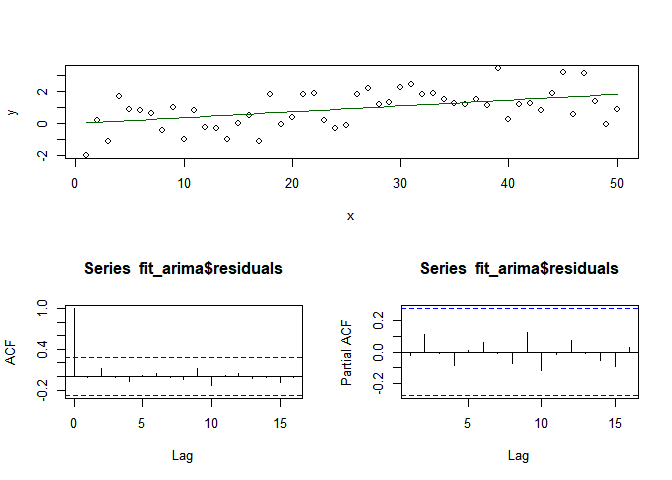
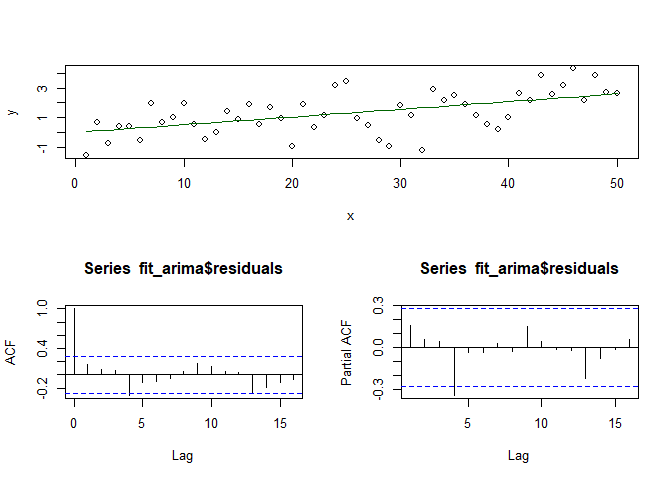
Update doc structure

diff --git a/src/2022-03-08_newey-west-heteroskedasticity-and-autocorrelation-robust-errors.md b/src/2022-03-08_newey-west-heteroskedasticity-and-autocorrelation-robust-errors.md
@@ -155,32 +155,32 @@ summary(fit) # standard estimates
     ## 
     ## Residuals:
     ##      Min       1Q   Median       3Q      Max 
-    ## -1.91022 -0.69829 -0.00632  0.78111  1.97382 
+    ## -2.91014 -0.76395  0.07692  0.75766  2.19645 
     ## 
     ## Coefficients:
-    ##              Estimate Std. Error t value Pr(>|t|)    
-    ## (Intercept) -0.177713   0.288546  -0.616    0.541    
-    ## x            0.041997   0.009848   4.265 9.34e-05 ***
+    ##             Estimate Std. Error t value Pr(>|t|)    
+    ## (Intercept) -0.12785    0.33539  -0.381    0.705    
+    ## x            0.05591    0.01145   4.884 1.19e-05 ***
     ## ---
     ## Signif. codes:  0 '***' 0.001 '**' 0.01 '*' 0.05 '.' 0.1 ' ' 1
     ## 
-    ## Residual standard error: 1.005 on 48 degrees of freedom
-    ## Multiple R-squared:  0.2748, Adjusted R-squared:  0.2597 
-    ## F-statistic: 18.19 on 1 and 48 DF,  p-value: 9.339e-05
+    ## Residual standard error: 1.168 on 48 degrees of freedom
+    ## Multiple R-squared:  0.332,  Adjusted R-squared:  0.3181 
+    ## F-statistic: 23.86 on 1 and 48 DF,  p-value: 1.195e-05
 
 ``` r
 coeftest(fit, vcov = NeweyWest(fit, verbose = T))
 ```
 
     ## 
-    ## Lag truncation parameter chosen: 0
+    ## Lag truncation parameter chosen: 2
 
     ## 
     ## t test of coefficients:
     ## 
-    ##               Estimate Std. Error t value  Pr(>|t|)    
-    ## (Intercept) -0.1777131  0.2383330 -0.7457    0.4595    
-    ## x            0.0419974  0.0088762  4.7315 1.999e-05 ***
+    ##              Estimate Std. Error t value  Pr(>|t|)    
+    ## (Intercept) -0.127849   0.241914 -0.5285    0.5996    
+    ## x            0.055908   0.010307  5.4240 1.876e-06 ***
     ## ---
     ## Signif. codes:  0 '***' 0.001 '**' 0.01 '*' 0.05 '.' 0.1 ' ' 1
 
@@ -212,17 +212,17 @@ summary(fit_arima)
     ## 
     ## Coefficients:
     ##         xreg
-    ##       0.0367
-    ## s.e.  0.0048
+    ##       0.0521
+    ## s.e.  0.0055
     ## 
-    ## sigma^2 = 0.997:  log likelihood = -70.37
-    ## AIC=144.73   AICc=144.99   BIC=148.56
+    ## sigma^2 = 1.341:  log likelihood = -77.77
+    ## AIC=159.54   AICc=159.79   BIC=163.36
     ## 
     ## Training set error measures:
-    ##                       ME      RMSE       MAE      MPE     MAPE      MASE
-    ## Training set -0.04310863 0.9884771 0.8323149 82.53892 358.4746 0.7657765
-    ##                     ACF1
-    ## Training set -0.02085614
+    ##                      ME    RMSE       MAE       MPE     MAPE      MASE
+    ## Training set -0.0310128 1.14617 0.8927144 -40.77468 148.9858 0.7262621
+    ##                   ACF1
+    ## Training set 0.1613632
 
 # 5 Example 2: Autocorrelated error
 
@@ -230,13 +230,16 @@ In cases where non-arima fit gives almost same estimate as arima fit,
 but p-value of t-test for coefficient is far from significant, I would
 prefer the arima fit.
 
-``` r
-# Examples where Arima fit is better than OLS:       seed 1, 2, 4, 5, 10, 13, 16, 17, 20 
-# Examples where Arima fit is better than OLS + HAC: seed 1, 2, 4, 5, 10, 12, 13, 14, 15, 16, 17, 19, 20 
-# Examples where no benefit to Arima:                seed 3, 6, 7, 8, 9, 11, 18 
-layout.matrix <- matrix(c(1, 2, 1, 3), nrow = 2, ncol = 2)
-layout(mat = layout.matrix)
+-   Examples where Arima fit is better than OLS:
+    -   seed 1, 2, 4, 5, 10, 13, 16, 17, 20
+-   Examples where Arima fit is better than OLS + HAC:
+    -   seed 1, 2, 4, 5, 10, 12, 13, 14, 15, 16, 17, 19, 20
+-   Examples where no benefit to Arima:
+    -   seed 3, 6, 7, 8, 9, 11, 18
 
+First set up the data.
+
+``` r
 seed <- 2
 set.seed(seed)
 
@@ -247,6 +250,13 @@ slope <- .05
 correlated_residuals <- arima.sim(list(ar = .9), n)
 x <- 1:n
 y <- slope*(x) + correlated_residuals
+```
+
+Fit lm model, and plot.
+
+``` r
+layout.matrix <- matrix(c(1, 2, 1, 3), nrow = 2, ncol = 2)
+layout(mat = layout.matrix)
 
 fit <- lm(y~x)
 
@@ -256,7 +266,9 @@ acf(fit$residuals)
 pacf(fit$residuals)
 ```
 
-![](2022-03-08_newey-west-heteroskedasticity-and-autocorrelation-robust-errors_files/figure-gfm/unnamed-chunk-8-1.png)<!-- -->
+![](2022-03-08_newey-west-heteroskedasticity-and-autocorrelation-robust-errors_files/figure-gfm/unnamed-chunk-9-1.png)<!-- -->
+
+Model output, using standard and Newey-West HAC errors:
 
 ``` r
 summary(fit) # standard estimates
@@ -295,7 +307,12 @@ coeftest(fit, vcov = NeweyWest(fit, verbose = T))
     ## (Intercept) -0.46224    4.57966 -0.1009   0.9200
     ## x            0.02811    0.23621  0.1190   0.9058
 
+Fit ARIMA model, and plot
+
 ``` r
+layout.matrix <- matrix(c(1, 2, 1, 3), nrow = 2, ncol = 2)
+layout(mat = layout.matrix)
+
 fit_arima <- auto.arima(y, xreg = x)
 summary(fit_arima)
 ```
@@ -325,7 +342,7 @@ acf(fit_arima$residuals)
 pacf(fit_arima$residuals)
 ```
 
-![](2022-03-08_newey-west-heteroskedasticity-and-autocorrelation-robust-errors_files/figure-gfm/unnamed-chunk-8-2.png)<!-- -->
+![](2022-03-08_newey-west-heteroskedasticity-and-autocorrelation-robust-errors_files/figure-gfm/unnamed-chunk-11-1.png)<!-- -->
 
 In this specific example, where `seed =` 2, we can see that the OLS fit
 and the (OLS + HAC) fit find the estimate a slope value close to the
@@ -338,10 +355,9 @@ relatively close to the true value.
 
 # 6 Example 3: Pure ARIMA series as dependent variable
 
-``` r
-layout.matrix <- matrix(c(1, 2, 1, 3), nrow = 2, ncol = 2)
-layout(mat = layout.matrix)
+First set up the data.
 
+``` r
 seed <- 3
 set.seed(seed)
 
@@ -351,6 +367,13 @@ slope <- .05
 
 y <- arima.sim(list(ar = .9), n)
 x <- 1:n
+```
+
+Fit lm model, and plot.
+
+``` r
+layout.matrix <- matrix(c(1, 2, 1, 3), nrow = 2, ncol = 2)
+layout(mat = layout.matrix)
 
 fit <- lm(y~x)
 
@@ -360,7 +383,9 @@ acf(fit$residuals)
 pacf(fit$residuals)
 ```
 
-![](2022-03-08_newey-west-heteroskedasticity-and-autocorrelation-robust-errors_files/figure-gfm/unnamed-chunk-9-1.png)<!-- -->
+![](2022-03-08_newey-west-heteroskedasticity-and-autocorrelation-robust-errors_files/figure-gfm/unnamed-chunk-13-1.png)<!-- -->
+
+Model output, using standard and Newey-West HAC errors:
 
 ``` r
 summary(fit) # standard estimates
@@ -397,7 +422,12 @@ coeftest(fit, vcov = NeweyWest(fit, verbose = T))
     ## (Intercept) 0.717443   0.712958  1.0063   0.3193
     ## x           0.022030   0.033051  0.6665   0.5083
 
+Fit ARIMA model, and plot
+
 ``` r
+layout.matrix <- matrix(c(1, 2, 1, 3), nrow = 2, ncol = 2)
+layout(mat = layout.matrix)
+
 fit_arima <- auto.arima(y, xreg = x)
 summary(fit_arima)
 ```
@@ -427,4 +457,4 @@ acf(fit_arima$residuals)
 pacf(fit_arima$residuals)
 ```
 
-![](2022-03-08_newey-west-heteroskedasticity-and-autocorrelation-robust-errors_files/figure-gfm/unnamed-chunk-9-2.png)<!-- -->
+![](2022-03-08_newey-west-heteroskedasticity-and-autocorrelation-robust-errors_files/figure-gfm/unnamed-chunk-15-1.png)<!-- -->
